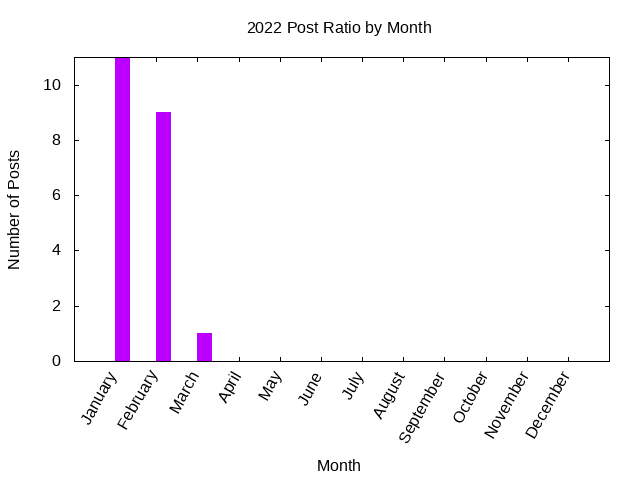
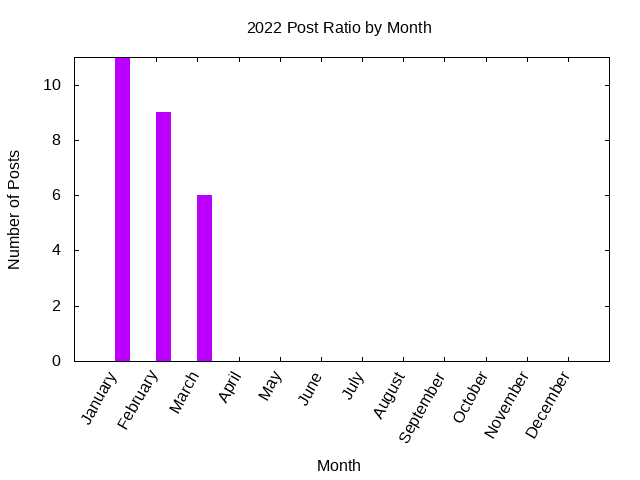
Stats automatic update

Changed region(s): [[0.2812, 0.4062, 0.3438, 0.7188]]

diff --git a/_includes/stats/2022.md b/_includes/stats/2022.md
@@ -1,22 +1,24 @@
 <a name="2022" />
 ## 2022 (work in progress)
 
-**21 total posts** have been written on 2022.
-There have been *12 different tags* used, the most
+**26 total posts** have been written on 2022.
+There have been *14 different tags* used, the most
 popular being (sorted by number of posts):
  
-- *perlweeklychallenge* (13 posts)  
-- *raku* (10 posts)  
-- *planet-postgresql-org* (5 posts)  
-- *postgresql* (5 posts)  
-- *linux* (4 posts)  
-- *freebsd* (2 posts)  
-- *shell* (2 posts)  
+- *perlweeklychallenge* (14 posts)  
+- *raku* (12 posts)  
+- *postgresql* (7 posts)  
+- *planet-postgresql-org* (6 posts)  
+- *linux* (5 posts)  
+- *perl* (4 posts)  
 - *zsh* (2 posts)  
-- *university* (1 posts)  
+- *shell* (2 posts)  
+- *freebsd* (2 posts)  
+- *oracle* (1 posts)  
 - *pgmoneta* (1 posts)  
-- *openbsd* (1 posts)  
-- *pgagroal* (1 posts).<br/>
+- *university* (1 posts)  
+- *pgagroal* (1 posts)  
+- *openbsd* (1 posts).<br/>
 <br/>
 The following is the overall 2022 post ratio by month:
 <br/>
@@ -35,7 +37,7 @@ The following is the overall 2022 post ratio by tag (showing max 30 tags):
 
 <div align="right">
 <small>
-Last generated on 2022-03-02 at 15:35
+Last generated on 2022-03-31 at 17:51
 </small>
 </div>
 
